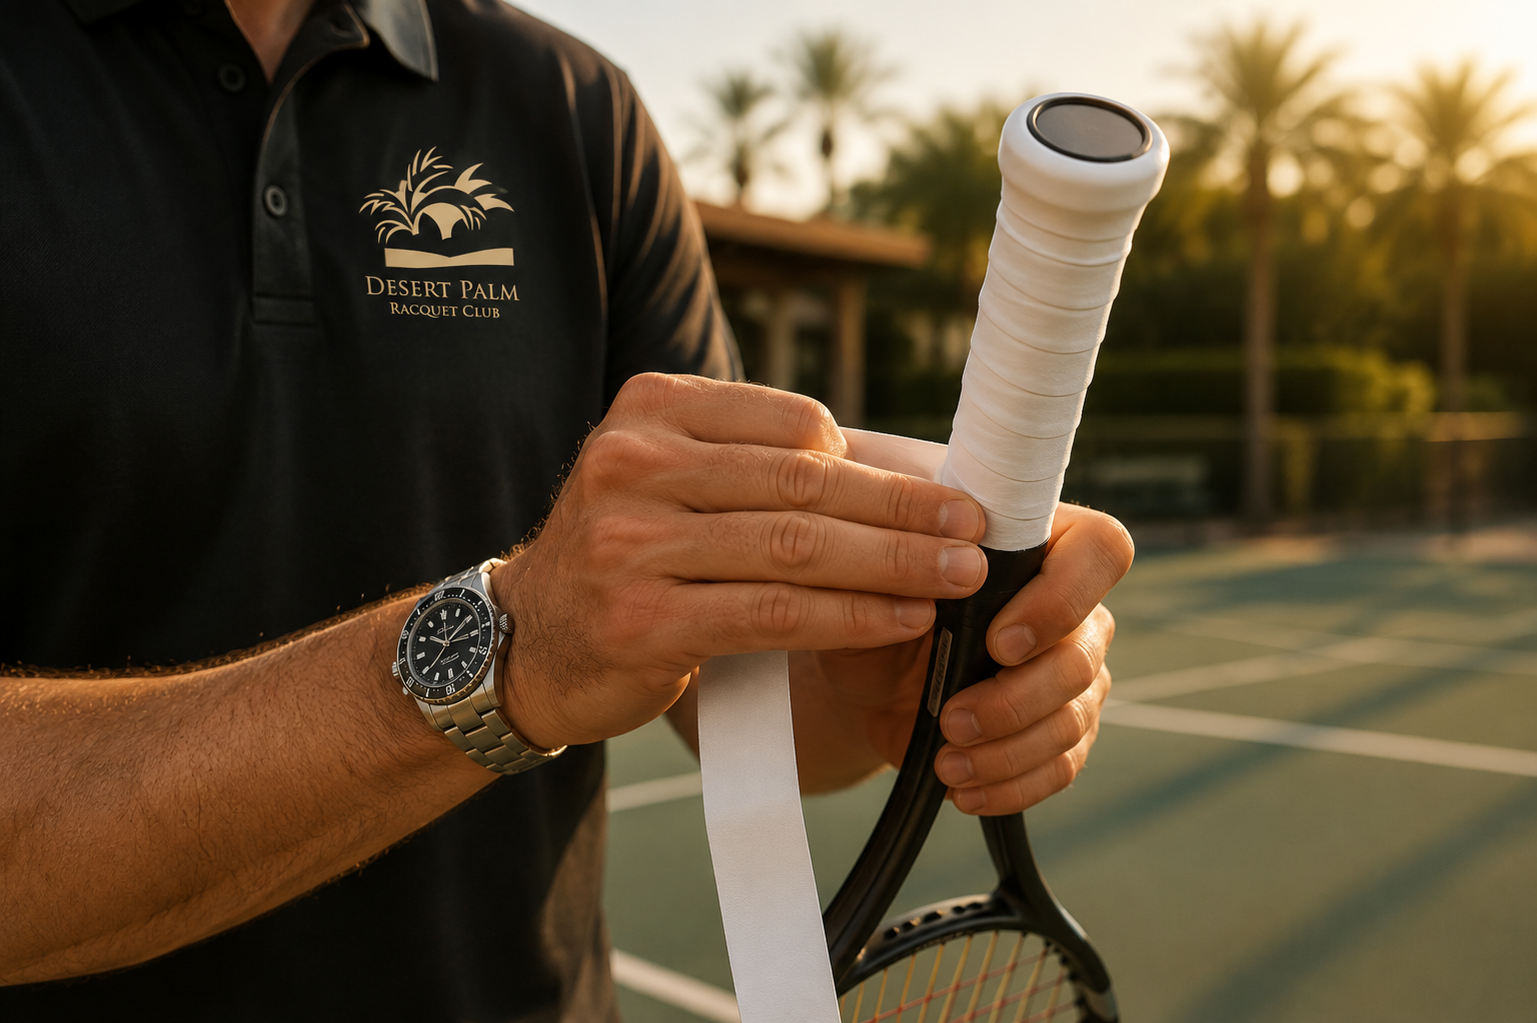
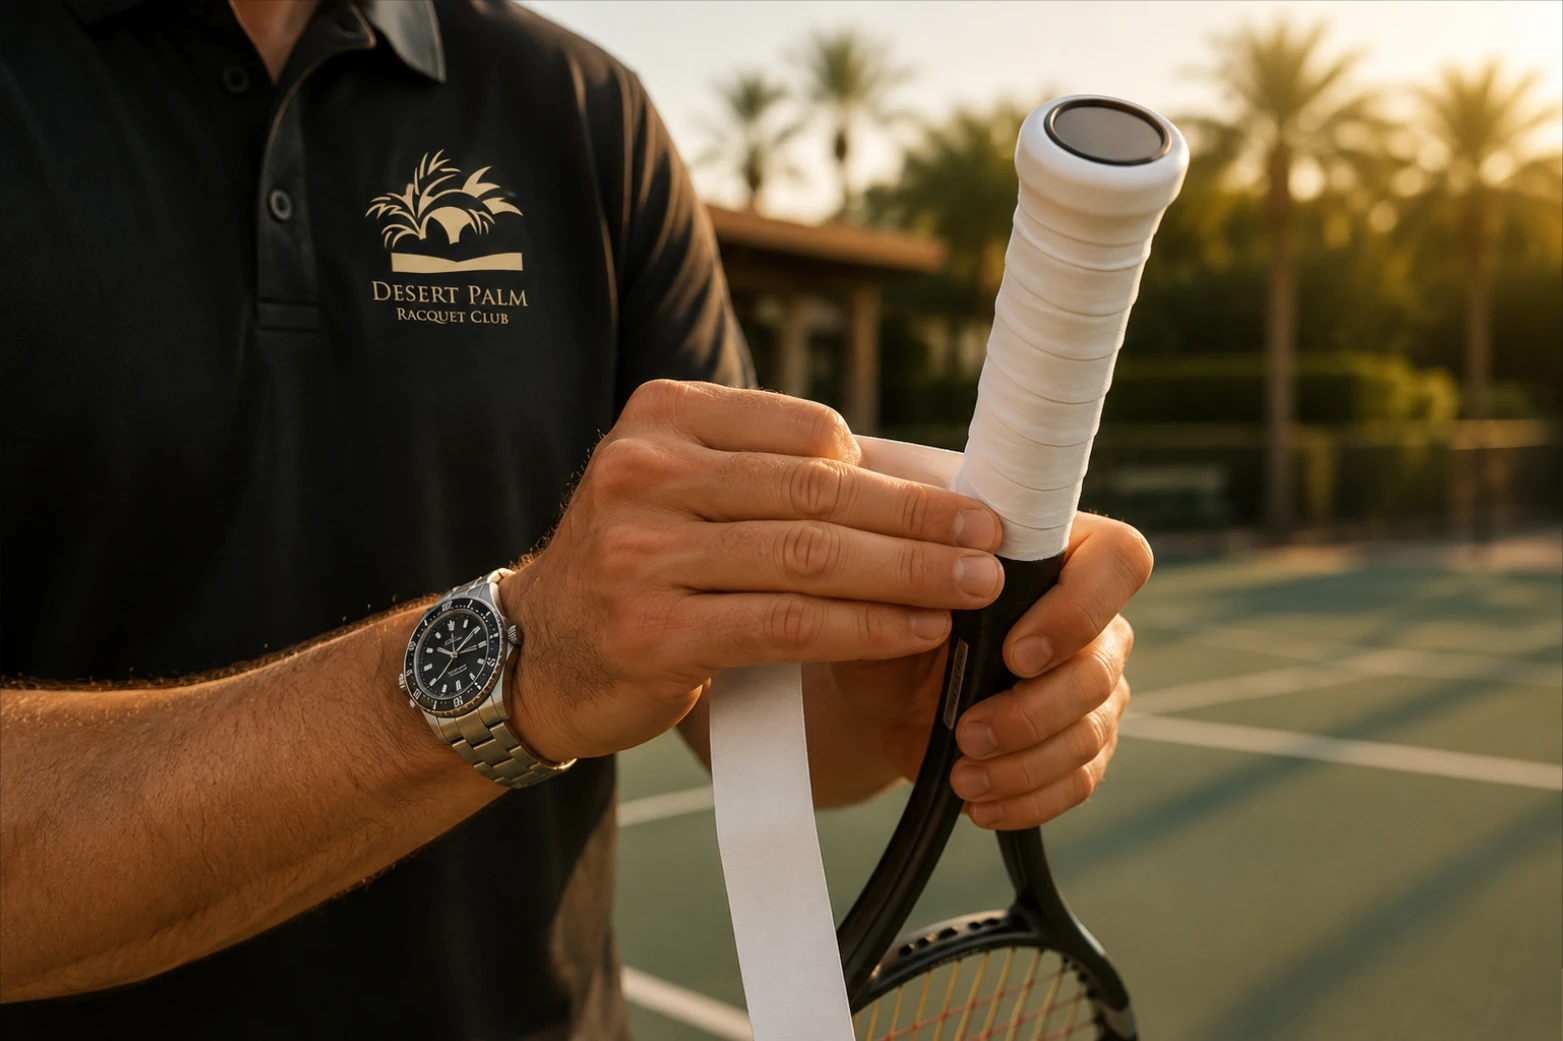
Add files via upload
Ticker update

diff --git a/style.css b/style.css
@@ -1111,29 +1111,29 @@ p {
     display: none;
   }
 }
-/* V1.5 floating update ticker */
+/* V1.5 full-width update ticker */
 body {
-  padding-bottom: calc(72px + env(safe-area-inset-bottom));
+  padding-bottom: calc(54px + env(safe-area-inset-bottom));
 }
 
 .dprc-update-bar {
   position: fixed;
-  left: 50%;
-  bottom: max(12px, env(safe-area-inset-bottom));
-  transform: translateX(-50%);
-  width: min(calc(100% - 32px), var(--max));
-  height: 46px;
+  left: 0;
+  right: 0;
+  bottom: 0;
+  width: 100%;
+  height: calc(46px + env(safe-area-inset-bottom));
   z-index: 80;
   overflow: hidden;
-  border-radius: 999px;
-  background: rgba(31, 53, 41, 0.96);
-  border: 1px solid rgba(246, 239, 226, 0.18);
-  box-shadow: 0 18px 50px rgba(0, 0, 0, 0.22);
+  background: rgba(31, 53, 41, 0.97);
+  border-top: 1px solid rgba(246, 239, 226, 0.18);
+  box-shadow: 0 -12px 36px rgba(0, 0, 0, 0.18);
   backdrop-filter: blur(14px);
+  padding-bottom: env(safe-area-inset-bottom);
 }
 
 .dprc-update-track {
-  height: 100%;
+  height: 46px;
   display: flex;
   align-items: center;
   width: max-content;
@@ -1148,7 +1148,7 @@ body {
   display: inline-flex;
   align-items: center;
   gap: 14px;
-  padding: 0 26px;
+  padding: 0 28px;
   color: var(--ivory-soft);
   font-size: 0.78rem;
   font-weight: 800;
@@ -1185,18 +1185,20 @@ body {
 
 @media (max-width: 850px) {
   body {
-    padding-bottom: calc(68px + env(safe-area-inset-bottom));
+    padding-bottom: calc(52px + env(safe-area-inset-bottom));
   }
 
   .dprc-update-bar {
-    bottom: max(10px, env(safe-area-inset-bottom));
+    height: calc(44px + env(safe-area-inset-bottom));
+  }
+
+  .dprc-update-track {
     height: 44px;
-    width: min(calc(100% - 24px), var(--max));
   }
 
   .dprc-update-item {
     font-size: 0.7rem;
-    padding: 0 20px;
+    padding: 0 22px;
     letter-spacing: 0.09em;
   }
 }